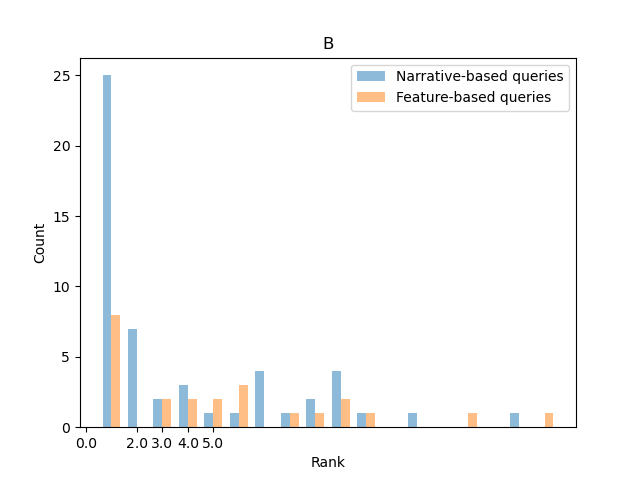
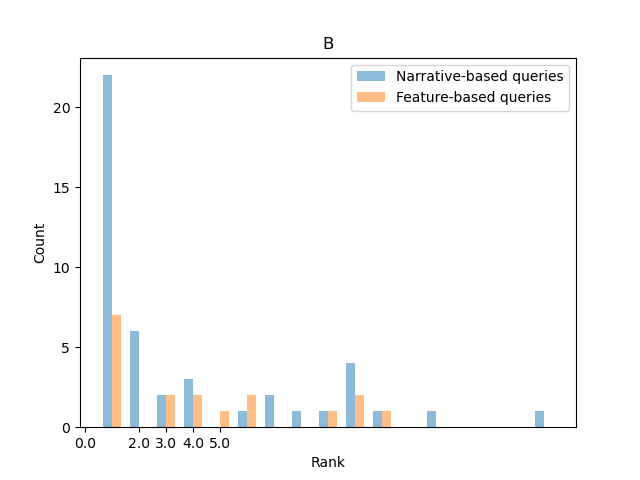
Update/fix figure 2b

diff --git a/figure2.py b/figure2.py
@@ -63,10 +63,11 @@ file2_rank = file2[rank_column]
 
 # Create a new dataframe with the extracted columns
 df = pd.DataFrame({
+    "file1_score": file1_score,
     "file1_rank": file1_rank,
+    "file2_score": file2_score,
     "file2_rank": file2_rank
 })
-
 
 def set_empty_indices_to_zero(series: pd.Series, this_min: int,
                               this_max: int) -> pd.Series:
@@ -82,9 +83,9 @@ def set_empty_indices_to_zero(series: pd.Series, this_min: int,
     return new_series.sort_index()
 
 
-# Calculate the counts of each score (0 to 5) in both columns
-rank_counts_file1 = to_numeric(df['file1_rank']).value_counts().sort_index()
-rank_counts_file2 = to_numeric(df['file2_rank']).value_counts().sort_index()
+# Find rank where score is 4 or 5, then count the number of times each rank appears
+rank_counts_file1 = to_numeric(df[df['file1_score'].isin([4, 5])]['file1_rank']).value_counts().sort_index()
+rank_counts_file2 = to_numeric(df[df['file2_score'].isin(["4", "5"])]['file2_rank']).value_counts().sort_index()
 
 this_max = int(max(rank_counts_file1.index.tolist() + rank_counts_file2.index.tolist()))
 this_min = int(max(min(rank_counts_file1.index.tolist() + rank_counts_file2.index.tolist()), 1))
